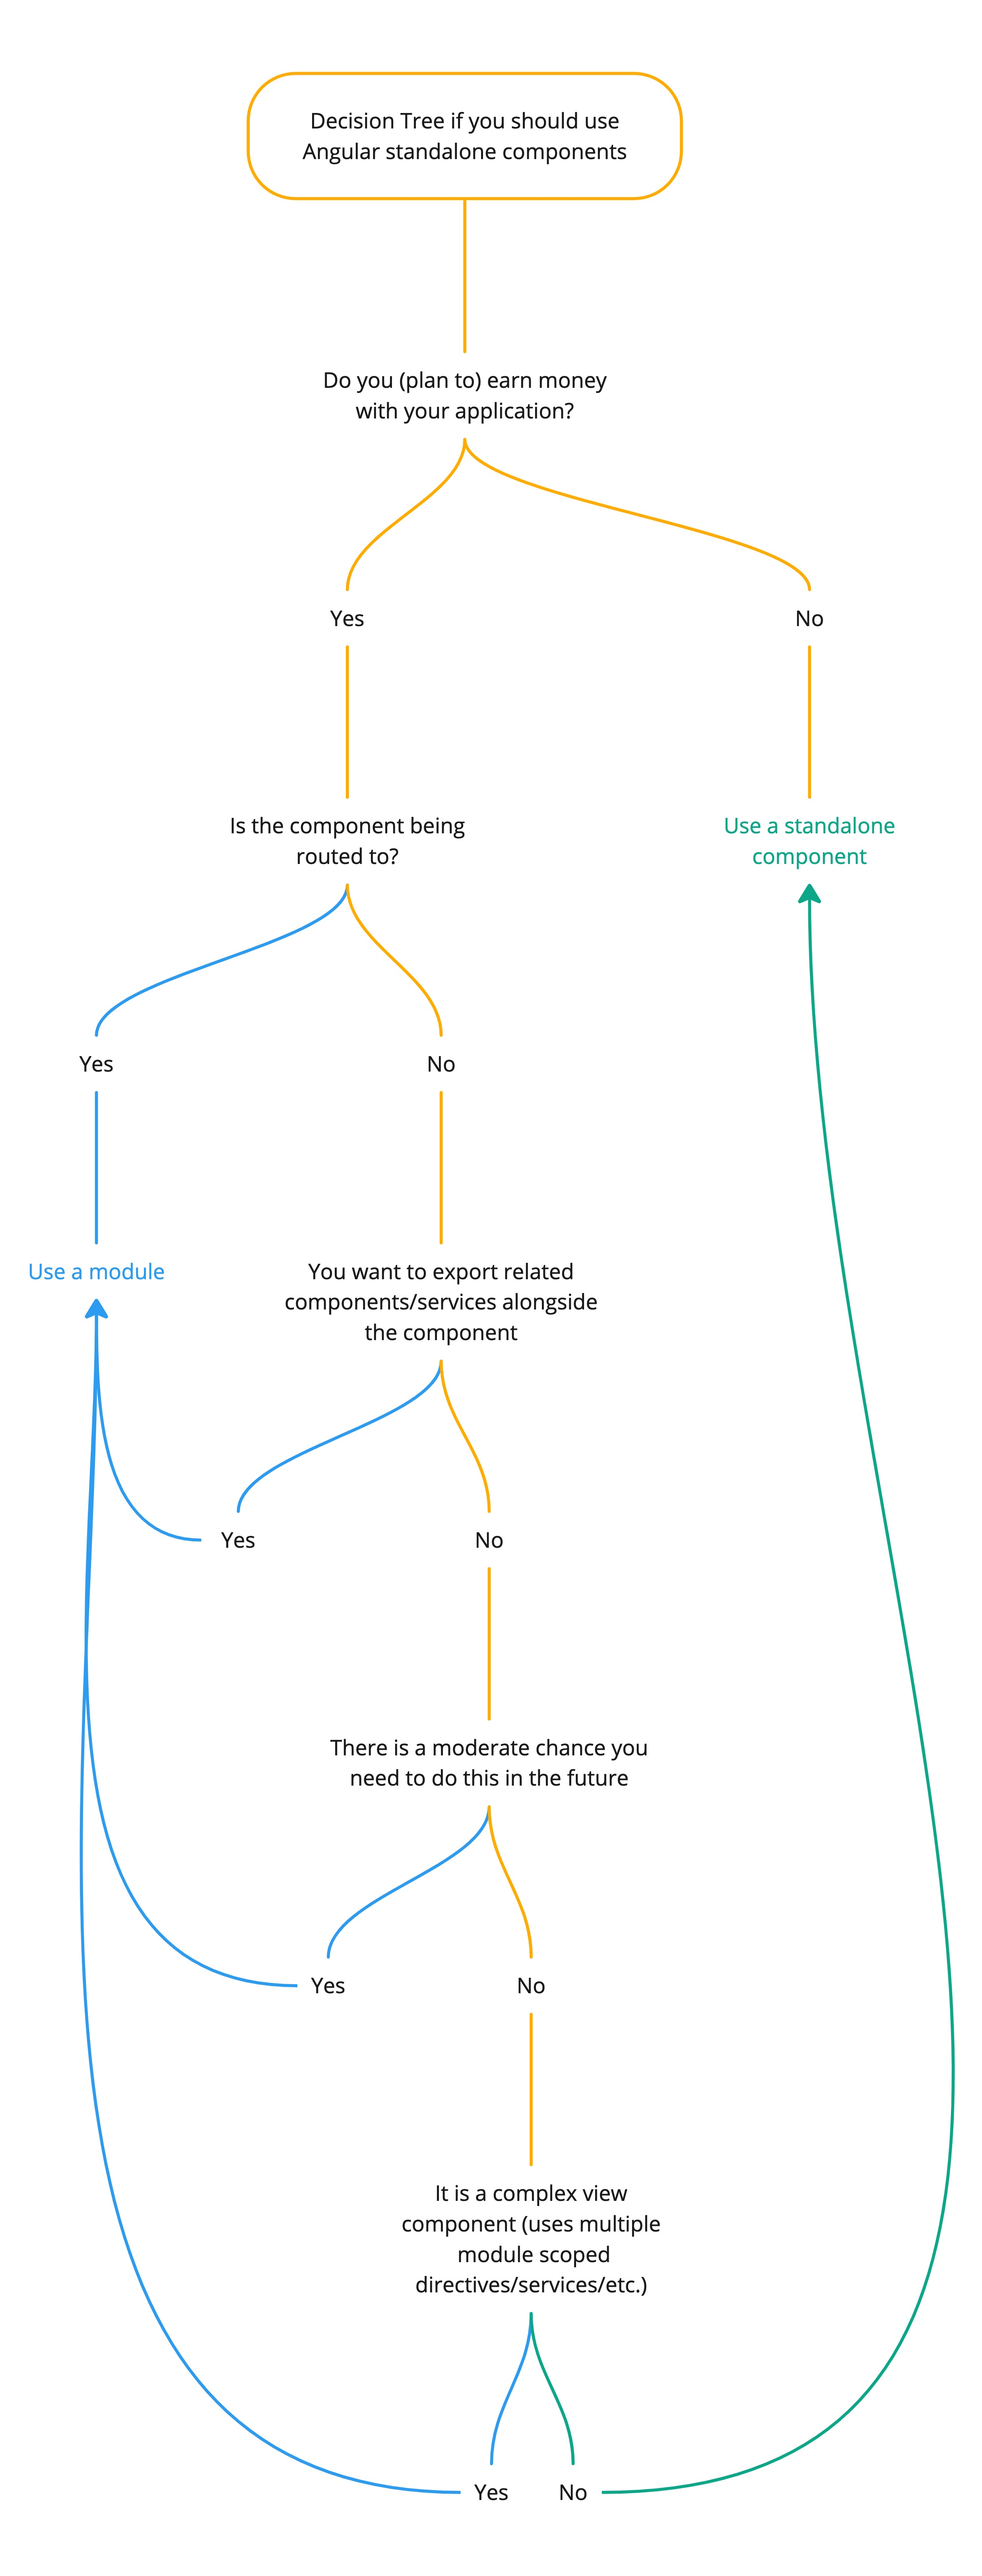
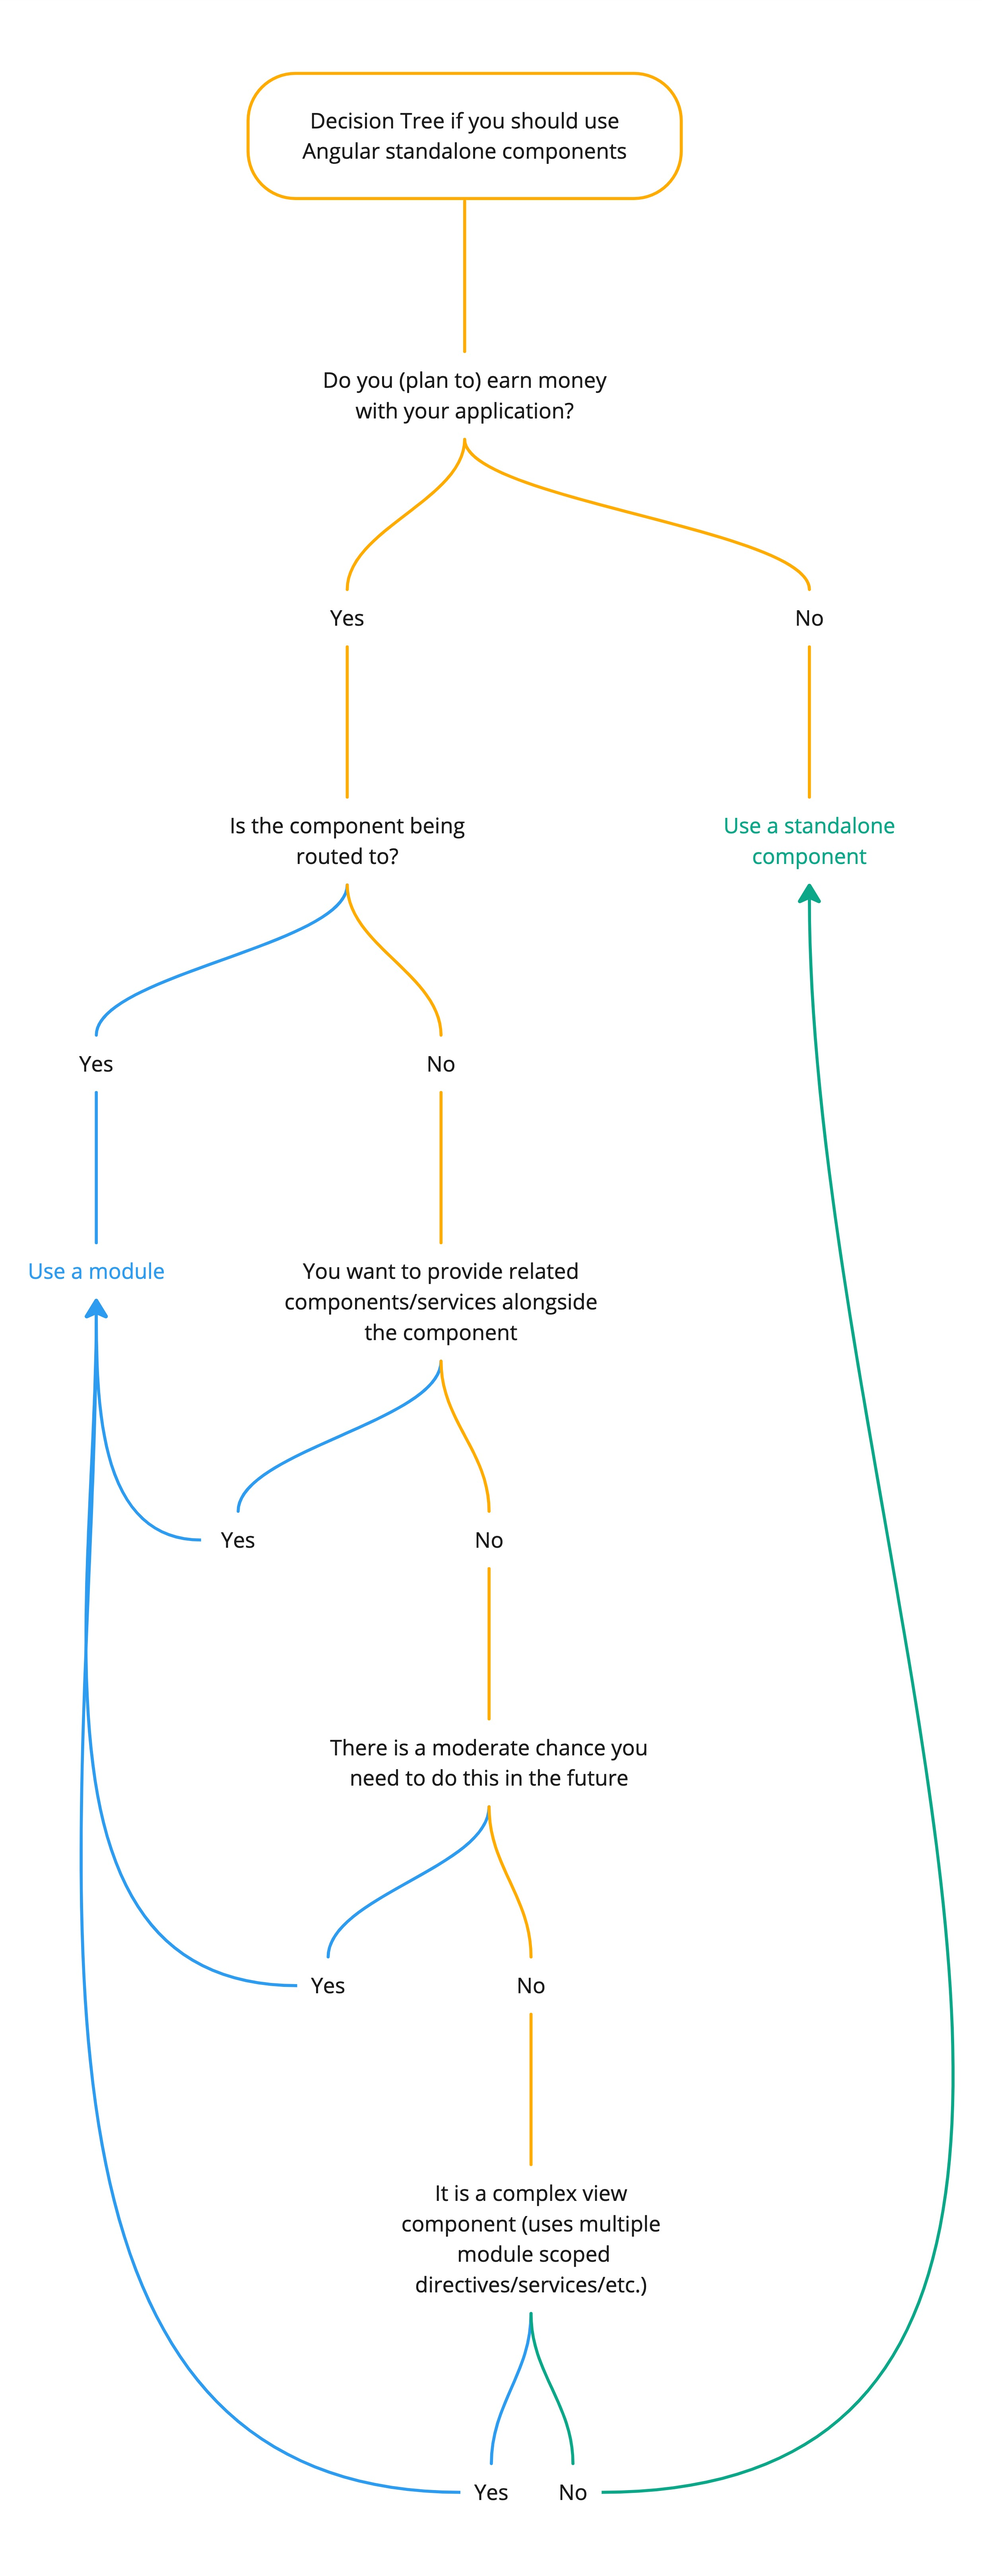
replaced export with provide

Changed region(s): [[0.4364, 0.4679, 0.4988, 0.4991]]

diff --git a/content/blog/angular-ultimate-guide-standalone-components/index.md b/content/blog/angular-ultimate-guide-standalone-components/index.md
@@ -32,7 +32,7 @@ with separate directories and module structure just gives an additional kick in 
 And page components tend to contain a lot of application logic, import multiple other modules, services, etc. 
 (more on those points in the next steps)
 
-### You want to export related components/services alongside the component
+### You want to provide related components/services alongside the component
 Standalone components should really follow the single responsibility principle.   
 If you want to provide additional things like 
 * Other (child) components
